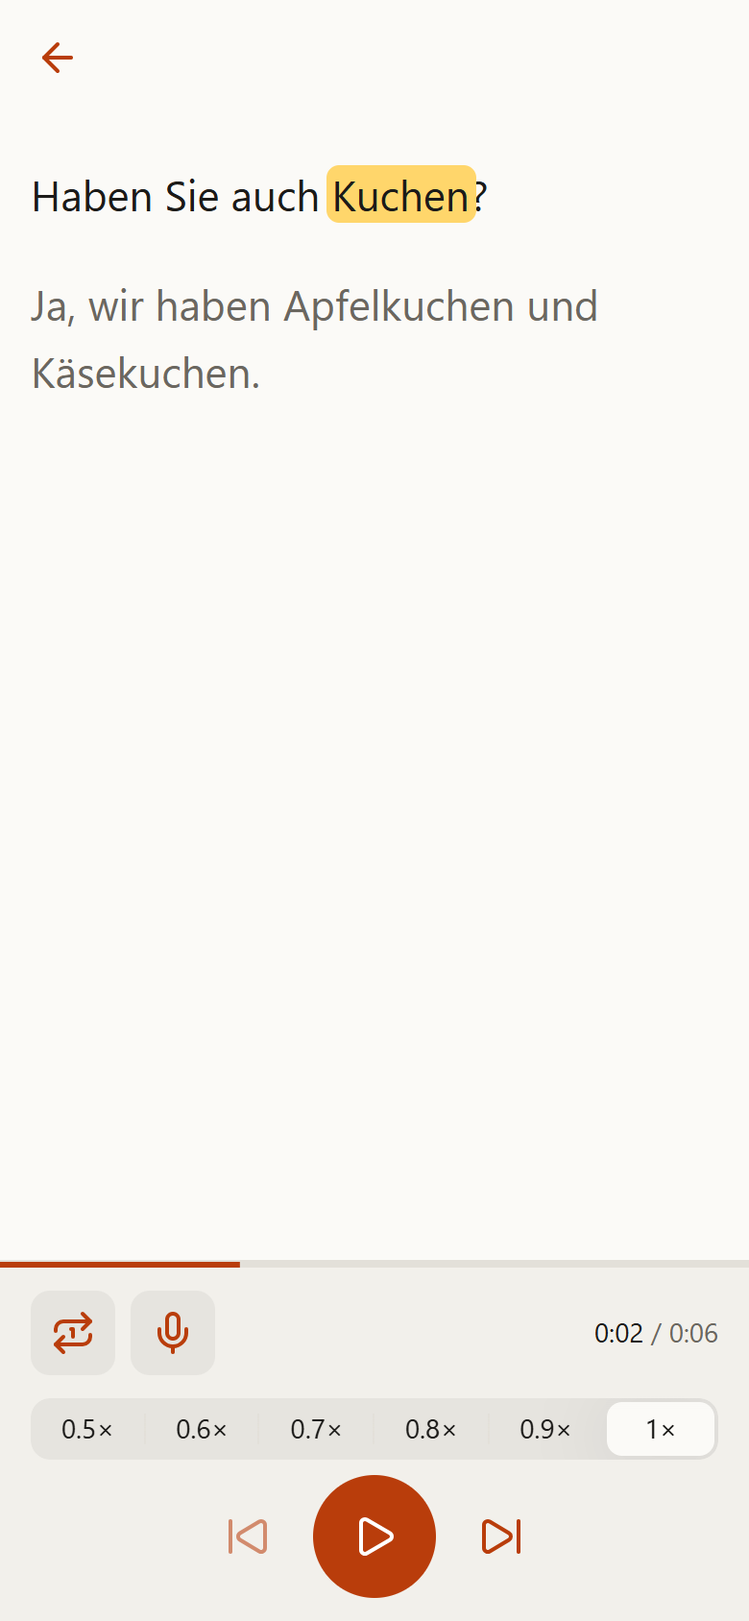
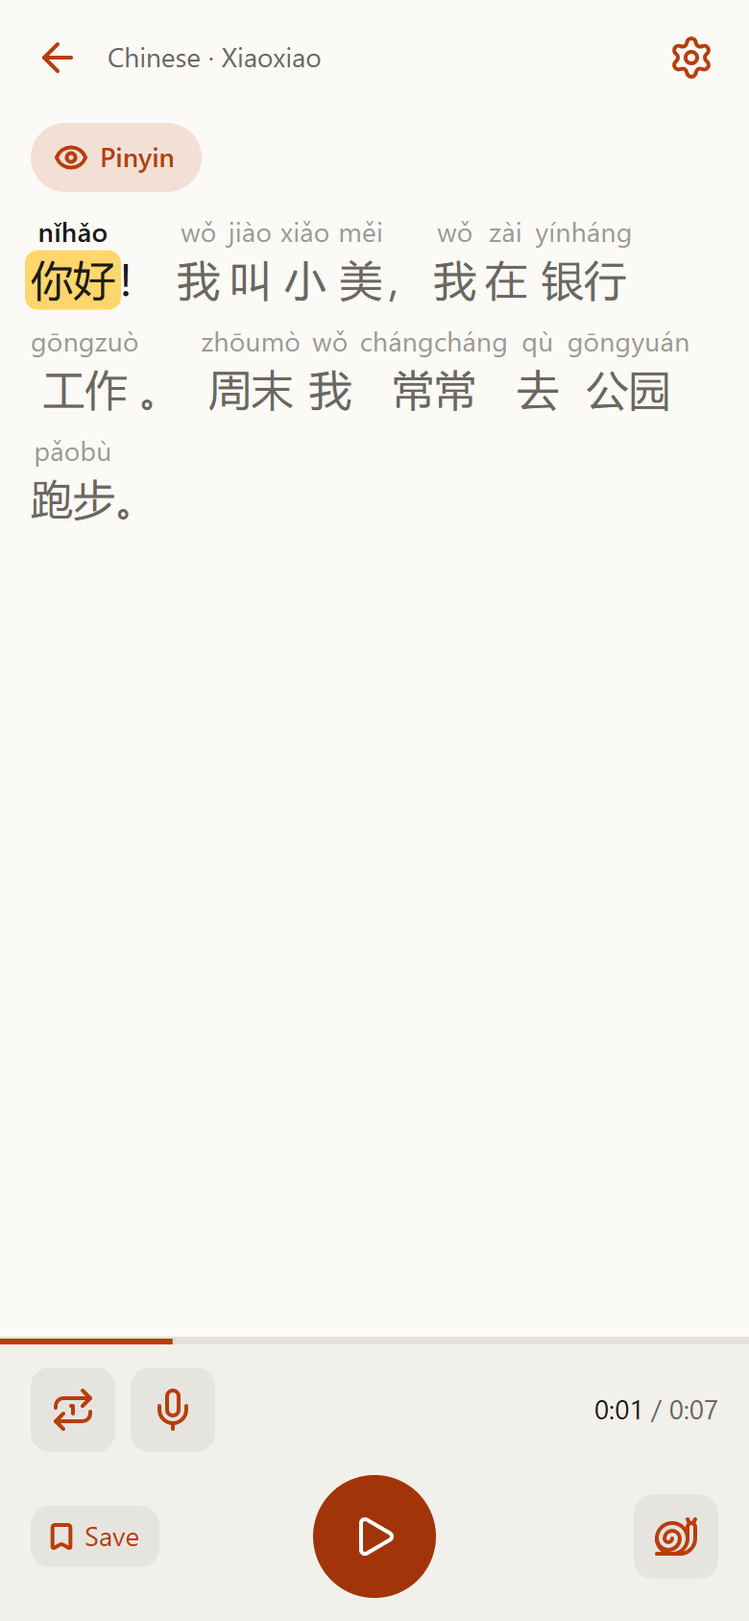
docs(readme): describe paste-and-listen, pinyin and folders with new screenshots
The README still showed the lessons-first flow from 20 Nov. It now walks
through pasting a text, the player with pinyin and saving into folders, in
Spanish, English and Russian, with nine new screenshots. The roadmap no
longer asks the reader to pick: it lists what comes next (translation, more
reliable pinyin) and keeps the remaining ideas.

diff --git a/README.ru.md b/README.ru.md
@@ -25,66 +25,44 @@
   <a href="LICENSE"><img src="https://img.shields.io/badge/license-MIT-blue" alt="license: MIT"></a>
 </p>
 
-Вставьте текст на языке, который вы учите, выберите голос и слушайте: каждое слово подсвечивается, пока звучит. А вы повторяете следом — это и есть *шэдоуинг* (shadowing).
+Вставьте текст на языке, который вы учите, и слушайте: каждое слово подсвечивается, пока звучит. А вы повторяете следом — это и есть *шэдоуинг* (shadowing).
 
-| 1 · Сохраните урок | 2 · Выберите фразы | 3 · Слушайте и повторяйте |
+| 1 · Вставьте и слушайте | 2 · Слушайте и повторяйте | 3 · Сохраните |
 |:---:|:---:|:---:|
-| <img src="docs/images/ru/lesson.png" width="220" alt="Урок с двумя кашами"> | <img src="docs/images/ru/pick-sentences.png" width="220" alt="Две отмеченные фразы"> | <img src="docs/images/ru/player.png" width="220" alt="Плеер с подсвеченным словом"> |
-| Диалог, статья, ваши заметки. Урок хранится в телефоне, как заметка. | Отметьте фразы, которые хотите отработать, или нажмите «Все». Выберите голос. | Звучащее слово подсвечивается. Каждый кусочек со своим аудио — это **каша**. |
+| <img src="docs/images/ru/home.png" width="220" alt="Главный экран со вставленным китайским текстом, флагом Китая и кнопками женского и мужского голоса"> | <img src="docs/images/ru/player.png" width="220" alt="Плеер с пиньинем над каждым словом и одним подсвеченным словом"> | <img src="docs/images/ru/folders.png" width="220" alt="Две папки с сохранёнными кашами"> |
+| Kasha сама узнаёт язык. Флаг показывает какой; кнопками ♀ и ♂ выбираете женский или мужской голос. | Звучащее слово подсвечивается, над ним — пиньинь. Вы повторяете следом. | Каждый текст со своим аудио — это **каша**. Сохраните её в папку и занимайтесь, когда хотите. |
 
 ## Что уже умеет
 
-- **Скорость** от 0,5× до 1×, и голос при этом не становится ниже.
+- **Узнаёт язык** текста и всегда читает его одним и тем же голосом для этого языка — женским или мужским. Обычный голос выбирается в настройках, а на главном экране его можно поменять только для этого текста.
+- **Пиньинь** над каждым китайским словом и **романизация** для корейского. Убирается одной кнопкой.
+- **Медленнее** — кнопкой с улиткой, и голос при этом не становится ниже.
 - **Повтор фразы**: одна и та же фраза по кругу, пока не получится.
-- **Пауза для повтора**: после каждой фразы приложение молчит ровно столько, чтобы вы успели её произнести.
+- **Пауза для повтора**: после каждой фразы приложение замолкает ровно настолько, чтобы вы успели её сказать.
 - **Нажмите на слово** — и воспроизведение перейдёт к нему.
-- **Избранные голоса**, чтобы не искать свой каждый раз.
+- **Папки**, чтобы разложить каши, и папки внутри папок.
+- **Настройки** в одно касание с любого экрана.
 - **Устанавливается как приложение** (Настройки → «Установить Kasha») и открывается без интернета. Чтобы создать новое аудио, интернет всё-таки нужен.
-- **Всё остаётся в вашем телефоне.** Никаких аккаунтов. Текст покидает телефон только для того, чтобы превратиться в речь голосами Microsoft Edge.
-- На **русском, английском и испанском**, со светлой и тёмной темой.
+- **Телефон показывает, что сейчас звучит**, на экране блокировки, со значком Kasha.
+- **Всё остаётся в вашем телефоне.** Никаких аккаунтов. Текст покидает телефон только для того, чтобы превратиться в речь, голосами Microsoft Edge.
+- На **испанском, английском и русском**, со светлой и тёмной темой.
 
-## Что дальше: выбираете вы
+## Что дальше
 
-Вот идеи, которые у нас есть. Напишите, какие вы хотите и в каком порядке, например «2, 1 и мелочь C». Если вам не хватает чего-то, чего здесь нет, тоже напишите.
+- **Перевод** под каждой фразой, с кнопкой, чтобы показать или скрыть его.
+- **Более точный пиньинь.** Сейчас в сложных фразах он верен примерно в 19 слогах из 20. Чаще всего ошибается в нейтральном тоне (学生 — это xuésheng, а не xuéshēng) и в иероглифах, чьё чтение зависит от фразы, вроде 得 или 地.
 
-Размер примерный: чем меньше, тем раньше вы это получите.
+### Идеи на потом
 
-### Чтобы лучше тренироваться
+Если какая-то нужна раньше, скажите нам.
 
-#### 1 · Запишите себя и сравните
-Когда наступает ваша очередь, Kasha записывает вас. Потом ваша фраза звучит сразу после оригинала, одна за другой, чтобы вы услышали разницу. Это сердце шэдоуинга: слышать себя рядом с образцом.<br>
-**Размер:** средний
-
-#### 2 · Тренировка без подсказок
-Кнопка с глазом меняет то, что вы видите: весь текст, только первые буквы слов («I h g e K m M») или ничего. Начинаете с чтения, а заканчиваете тем, что следуете за голосом только на слух.<br>
-**Размер:** маленький
-
-#### 3 · Свой голос у каждого персонажа
-Если урок — это диалог, где строки начинаются с «A:» и «B:» (или с имён), каждый персонаж говорит своим голосом. А в **режиме роли** вы выключаете одного из них и говорите его реплики сами: разговор, в котором ваша очередь говорить.<br>
-**Размер:** большой
-
-#### 4 · Управление с экрана блокировки
-Воспроизведение, пауза и переход между фразами с экрана блокировки или кнопками наушников, пока телефон лежит в кармане. На iPhone у звука при закрытом приложении есть ограничения от Apple, поэтому там может работать не так гладко, как на Android.<br>
-**Размер:** маленький
-
-#### 5 · Оценка произношения
-Вы читаете фразу вслух, а Kasha отмечает слова, которые не разобрала. Самая эффектная и самая ненадёжная идея: всё зависит от распознавания речи в телефоне, а оно ошибается с некоторыми акцентами и языками.<br>
-**Размер:** большой
-
-### Чтобы ничего не потерять
-
-#### 6 · Резервная копия
-Сейчас ваши уроки живут только в телефоне: если удалить приложение или сменить iPhone, они пропадут. С этой функцией вы сохраняете их в файл вместе с аудио и восстанавливаете, когда нужно.<br>
-**Размер:** средний
-
-### Мелкие улучшения
-
-- **A · Нажмите на отмеченный кусочек — и он зазвучит.** На вкладке «Урок» кусочки, из которых уже сделаны каши, сразу открывают плеер.
-- **B · Привычный голос.** Когда вы создаёте ещё одну кашу в том же уроке, приложение предлагает голос, который вы там уже выбирали.
-- **C · Пропал интернет — продолжаем.** Если связь оборвётся посреди создания аудио, приложение досоздаст недостающие фразы, а не начнёт всё заново.
-- **D · Готовый урок-пример** при первом запуске, чтобы посмотреть, как всё работает, ничего не вставляя.
-- **E · Сколько раз вы тренировались.** Счётчик и дата последней тренировки у каждой каши.
-- **F · Повторить и дальше.** Каждая фраза звучит 2 или 3 раза и сама переходит к следующей, ничего нажимать не нужно.
+- **Запишите себя и сравните.** В вашу очередь Kasha записывает вас и проигрывает вашу фразу сразу после оригинала, чтобы вы услышали разницу.
+- **Тренировка без подсказок.** Кнопка меняет то, что видно: весь текст, только первые буквы слов или ничего.
+- **Свой голос для каждого персонажа** в диалогах с «A:» и «B:». В **режиме роли** вы заглушаете одного из них и говорите за него сами.
+- **Кнопки на экране блокировки** и в наушниках: воспроизведение, пауза и переход между фразами, пока телефон в кармане.
+- **Оценка произношения.** Вы читаете фразу вслух, и Kasha отмечает слова, которые не разобрала. Зависит от распознавания речи в телефоне, а оно ошибается с некоторыми акцентами.
+- **Резервная копия** каш в файл, вместе с аудио, на случай смены телефона.
+- **Мелочи:** если интернет пропал посреди создания аудио, продолжить с того же места; пример каши при первом запуске; сколько раз вы занимались с каждой кашей; и чтобы каждая фраза звучала 2–3 раза и сама переходила к следующей.
 
 ---
 

diff --git a/README.md b/README.md
@@ -29,66 +29,44 @@
   <a href="LICENSE"><img src="https://img.shields.io/badge/license-MIT-blue" alt="license: MIT"></a>
 </p>
 
-Paste a text in the language you're learning, pick a voice, and listen with each word lit up as it's spoken. You repeat right behind it: that's *shadowing*.
+Paste a text in the language you're learning and listen with each word lit up as it's spoken. You repeat right behind it: that's *shadowing*.
 
-| 1 · Save the lesson | 2 · Pick the sentences | 3 · Listen and repeat |
+| 1 · Paste and listen | 2 · Listen and repeat | 3 · Save it |
 |:---:|:---:|:---:|
-| <img src="docs/images/en/lesson.png" width="220" alt="A lesson with its two kashas"> | <img src="docs/images/en/pick-sentences.png" width="220" alt="Two sentences ticked"> | <img src="docs/images/en/player.png" width="220" alt="The player with one word lit up"> |
-| A dialogue, an article, your notes. It stays on your phone like a note. | Tap the sentences you want to practise, or “All”. Pick the voice. | The word being spoken lights up. Each part with its audio is a **kasha**. |
+| <img src="docs/images/en/home.png" width="220" alt="The home screen with a Chinese text pasted in, the Chinese flag and the female and male voice buttons"> | <img src="docs/images/en/player.png" width="220" alt="The player with pinyin over each word and one word lit up"> | <img src="docs/images/en/folders.png" width="220" alt="Two folders with saved kashas"> |
+| Kasha recognises the language by itself. The flag tells you which; ♀ and ♂ pick a female or male voice. | The word being spoken lights up, with its pinyin on top. You repeat it right after. | Each text with its audio is a **kasha**. Save it in a folder and practise whenever you like. |
 
 ## What it already does
 
-- **Speed** from 0.5× to 1×, without the voice dropping in pitch.
+- **Recognises the language** of the text and always reads it with the same voice for that language, female or male. Your usual one is set in Settings, and on the home screen you can switch it for that text only.
+- **Pinyin** over each Chinese word and **romanization** for Korean. One button hides it.
+- **Slower** with the snail button, without the voice dropping in pitch.
 - **Repeat sentence**: the same sentence on a loop until you get it.
 - **Pause to repeat**: after each sentence it goes quiet just long enough for you to say it.
 - **Tap a word** to jump there.
-- **Favourite voices**, so you don't have to look for yours every time.
-- **Installs like an app** (Settings → “Install Kasha”) and opens offline. Making new audio does need the internet.
-- **Everything stays on your phone.** There are no accounts. The text only leaves your phone to be turned into speech, with Microsoft Edge's voices.
-- In **English, Spanish and Russian**, with light and dark themes.
+- **Folders** to sort your kashas, and folders inside folders.
+- **Settings** one tap away from every screen.
+- **Installs like an app** (Settings → "Install Kasha") and opens offline. Making new audio does need the internet.
+- **Your phone shows what's playing** on the lock screen, with the Kasha icon.
+- **Everything stays on your phone.** No accounts. The text only leaves the phone to be turned into speech, with Microsoft Edge's voices.
+- In **Spanish, English and Russian**, with light and dark themes.
 
-## What's next: you choose
+## What's next
 
-These are the ideas we have. Tell us which ones you want and in what order, for example “2, 1 and tweak C”. If something you'd like isn't here, tell us that too.
+- **Translation** under each sentence, with a button to show or hide it.
+- **More reliable pinyin.** Today it gets about 19 syllables in 20 right in hard sentences. It mostly misses neutral tones (学生 is xuésheng, not xuéshēng) and characters whose reading depends on the sentence, like 得 or 地.
 
-The size is a rough guide: the smaller it is, the sooner you get it.
+### Ideas for later
 
-### To practise better
+If you want one of these sooner, tell us.
 
-#### 1 · Record yourself and compare
-On your turn, Kasha records you. Then your sentence plays right after the original, one after the other, so you can hear the difference. It's the heart of shadowing: hearing yourself next to the model.<br>
-**Size:** medium
-
-#### 2 · Practise without looking
-An eye button changes what you see: the whole text, only the first letter of each word (“I h g e K m M”), or nothing. You start by reading and end up following the voice by ear alone.<br>
-**Size:** small
-
-#### 3 · A voice for each character
-If the lesson is a dialogue whose lines start with “A:” and “B:” (or with names), each character speaks with their own voice. And in **role mode** you mute one of them and say their lines yourself: a conversation where it's your turn to talk.<br>
-**Size:** large
-
-#### 4 · Lock screen controls
-Play, pause and change sentence from the lock screen or your headphone buttons, with the phone in your pocket. On iPhone, audio with the app closed has limits set by Apple, so it may not work as smoothly as on Android.<br>
-**Size:** small
-
-#### 5 · Pronunciation check
-You read the sentence aloud and Kasha marks the words it didn't understand. It's the flashiest and the least reliable: it depends on the phone's speech recognition, which struggles with some accents and languages.<br>
-**Size:** large
-
-### So you don't lose anything
-
-#### 6 · Backup
-Right now your lessons live only on your phone: if you delete the app or switch iPhones, they're gone. With this you save them to a file, with their audio, and get them back whenever you want.<br>
-**Size:** medium
-
-### Small tweaks
-
-- **A · Tap a marked part and it plays.** In the “Lesson” tab, the parts that are already kashas take you straight to the player.
-- **B · The usual voice.** When you make another kasha in the same lesson, it suggests the voice you already used there.
-- **C · If the internet drops, it carries on.** If the connection drops halfway through making audio, it picks up the missing sentences instead of starting over.
-- **D · A sample lesson** already there the first time you open the app, to see it working without pasting anything.
-- **E · How many times you've practised it.** A counter and the date of the last time on each kasha.
-- **F · Repeat and move on.** Each sentence plays 2 or 3 times and moves on to the next by itself, without touching anything.
+- **Record yourself and compare.** On your turn Kasha records you, then plays your sentence right after the original so you can hear the difference.
+- **Practise without looking.** A button switches what you see: the whole text, only each word's first letter, or nothing.
+- **One voice per character** in dialogues written with "A:" and "B:". With **role mode** you mute one of them and say their lines yourself.
+- **Lock-screen and headphone buttons**: play, pause and change sentence with the phone in your pocket.
+- **Pronunciation check.** You read the sentence aloud and Kasha marks the words it didn't understand. It depends on the phone's speech recognition, which struggles with some accents.
+- **Backup** of your kashas to a file, audio included, in case you change phones.
+- **Small touches:** if the internet drops halfway through making audio, carry on where it stopped; an example kasha the first time you open the app; how many times you've practised each kasha; and each sentence played 2 or 3 times before moving on by itself.
 
 ---
 

diff --git a/README.es.md b/README.es.md
@@ -29,66 +29,44 @@
   <a href="LICENSE"><img src="https://img.shields.io/badge/license-MIT-blue" alt="license: MIT"></a>
 </p>
 
-Pegas un texto en el idioma que estudias, eliges una voz y lo escuchas con cada palabra marcada mientras suena. Tú repites detrás: eso es el *shadowing*.
+Pegas un texto en el idioma que estudias y lo escuchas con cada palabra marcada mientras suena. Tú repites detrás: eso es el *shadowing*.
 
-| 1 · Guarda la lección | 2 · Elige las frases | 3 · Escucha y repite |
+| 1 · Pega y escucha | 2 · Escucha y repite | 3 · Guárdala |
 |:---:|:---:|:---:|
-| <img src="docs/images/es/lesson.png" width="220" alt="Una lección con sus dos kashas"> | <img src="docs/images/es/pick-sentences.png" width="220" alt="Dos frases marcadas"> | <img src="docs/images/es/player.png" width="220" alt="El reproductor con una palabra marcada"> |
-| Un diálogo, un artículo, tus apuntes. Se queda en tu móvil como una nota. | Tocas las frases que quieres practicar, o «Todas». Eliges la voz. | La palabra que suena se marca. Cada trozo con su audio es una **kasha**. |
+| <img src="docs/images/es/home.png" width="220" alt="El inicio con un texto en chino pegado, la bandera de China y los botones de voz de mujer y de hombre"> | <img src="docs/images/es/player.png" width="220" alt="El reproductor con el pinyin encima de cada palabra y una palabra marcada"> | <img src="docs/images/es/folders.png" width="220" alt="Dos carpetas con kashas guardadas"> |
+| Kasha reconoce el idioma solo. La bandera te dice cuál; con ♀ y ♂ eliges voz de mujer o de hombre. | La palabra que suena se marca, con el pinyin encima. Tú la repites detrás. | Cada texto con su audio es una **kasha**. La guardas en una carpeta y la practicas cuando quieras. |
 
 ## Lo que ya hace
 
-- **Velocidad** de 0,5× a 1×, sin que la voz se vuelva grave.
+- **Reconoce el idioma** del texto y lo lee siempre con la misma voz de ese idioma, de mujer o de hombre. La de siempre se elige en Ajustes, y en el inicio puedes cambiarla solo para ese texto.
+- **Pinyin** encima de cada palabra en chino y **romanización** en coreano. Se quita con un botón.
+- **Más despacio** con el botón del caracol, sin que la voz se vuelva grave.
 - **Repetir frase**: la misma frase en bucle hasta que te salga.
 - **Pausa para repetir**: después de cada frase se calla el tiempo justo para que la digas tú.
 - **Toca una palabra** y salta ahí.
-- **Voces favoritas**, para no buscar la tuya cada vez.
+- **Carpetas** para ordenar tus kashas, y carpetas dentro de carpetas.
+- **Ajustes** a un toque desde cualquier pantalla.
 - **Se instala como una app** (Ajustes → «Instalar Kasha») y abre sin conexión. Para generar audio nuevo sí hace falta internet.
+- **El móvil enseña qué suena** en la pantalla de bloqueo, con el icono de Kasha.
 - **Todo se queda en tu móvil.** No hay cuentas. El texto solo sale del móvil para convertirlo en voz, con las voces de Microsoft Edge.
 - En **español, inglés y ruso**, con tema claro y oscuro.
 
-## Lo que viene: eliges tú
+## Lo que viene
 
-Estas son las ideas que tenemos. Dinos cuáles quieres y en qué orden, por ejemplo «2, 1 y el retoque C». Si echas en falta algo que no está aquí, cuéntanoslo también.
+- **Traducción** debajo de cada frase, con un botón para verla o esconderla.
+- **Pinyin más fiable.** Hoy acierta unas 19 de cada 20 sílabas en frases difíciles. Falla sobre todo en los tonos neutros (学生 es xuésheng, no xuéshēng) y en caracteres que cambian según la frase, como 得 o 地.
 
-El tamaño es orientativo: cuanto más pequeño, antes lo tienes.
+### Ideas para más adelante
 
-### Para practicar mejor
+Si quieres alguna antes, dínoslo.
 
-#### 1 · Grábate y compárate
-En tu turno, Kasha te graba. Al terminar suena tu frase justo después de la original, una detrás de otra, para que oigas la diferencia. Es el corazón del shadowing: escucharte junto al modelo.<br>
-**Tamaño:** mediano
-
-#### 2 · Practicar sin mirar
-Un botón con un ojo cambia lo que ves: el texto entero, solo las iniciales de cada palabra («I h g e K m M») o nada. Empiezas leyendo y acabas siguiendo la voz solo de oído.<br>
-**Tamaño:** pequeño
-
-#### 3 · Una voz por personaje
-Si la lección es un diálogo con líneas que empiezan por «A:» y «B:» (o por nombres), cada personaje suena con su voz. Y con el **modo papel** silencias a uno y lo dices tú: una conversación en la que te toca hablar.<br>
-**Tamaño:** grande
-
-#### 4 · Controles en la pantalla de bloqueo
-Reproducir, pausar y cambiar de frase desde la pantalla de bloqueo o los botones de los auriculares, con el móvil en el bolsillo. En iPhone, el audio con la app cerrada tiene límites que pone Apple, así que puede no ir tan fino como en Android.<br>
-**Tamaño:** pequeño
-
-#### 5 · Nota de pronunciación
-Lees la frase en voz alta y Kasha marca las palabras que no ha entendido. Es la más vistosa y la menos fiable: depende del reconocimiento de voz del móvil, que falla con algunos acentos e idiomas.<br>
-**Tamaño:** grande
-
-### Para no perder nada
-
-#### 6 · Copia de seguridad
-Ahora tus lecciones viven solo en tu móvil: si borras la app o cambias de iPhone, se pierden. Con esto las guardas en un archivo, con sus audios, y las recuperas cuando quieras.<br>
-**Tamaño:** mediano
-
-### Retoques pequeños
-
-- **A · Toca un trozo marcado y suena.** En la pestaña «Lección», los trozos que ya son kashas te llevan directamente al reproductor.
-- **B · La voz de siempre.** Al crear otra kasha en la misma lección, te propone la voz que ya usaste en ella.
-- **C · Si se corta internet, sigue.** Si la conexión cae a mitad de generar, retoma las frases que faltaban en vez de empezar de cero.
-- **D · Una lección de ejemplo** ya creada la primera vez que abres la app, para verlo funcionar sin pegar nada.
-- **E · Cuántas veces la has practicado.** Un contador y la fecha de la última vez en cada kasha.
-- **F · Repite y sigue.** Cada frase suena 2 o 3 veces y pasa sola a la siguiente, sin tocar nada.
+- **Grábate y compárate.** En tu turno, Kasha te graba y luego suena tu frase justo después de la original, para que oigas la diferencia.
+- **Practicar sin mirar.** Un botón cambia lo que ves: el texto entero, solo las iniciales de cada palabra o nada.
+- **Una voz por personaje** en los diálogos con «A:» y «B:». Con el **modo papel** silencias a uno y lo dices tú.
+- **Botones en la pantalla de bloqueo** y en los auriculares: reproducir, pausar y cambiar de frase con el móvil en el bolsillo.
+- **Nota de pronunciación.** Lees la frase en voz alta y Kasha marca las palabras que no ha entendido. Depende del reconocimiento de voz del móvil, que falla con algunos acentos.
+- **Copia de seguridad** de tus kashas en un archivo, con sus audios, por si cambias de móvil.
+- **Retoques pequeños:** si se corta internet a mitad de generar, que siga donde iba; una kasha de ejemplo la primera vez que abres la app; cuántas veces has practicado cada kasha; y que cada frase suene 2 o 3 veces y pase sola a la siguiente.
 
 ---
 
